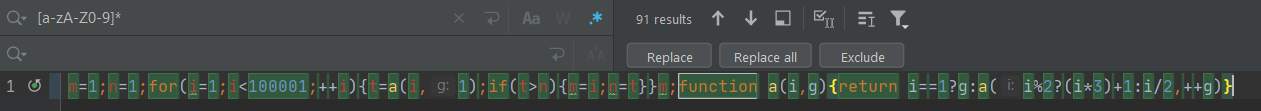
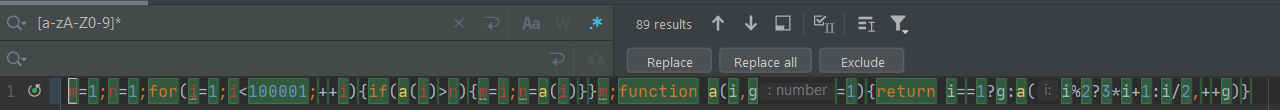
LAST COMMIT 89

diff --git a/SOLUTION.ts b/SOLUTION.ts
@@ -1,1 +1,1 @@
-m=1;n=1;for(i=1;i<100001;++i){t=a(i,1);if(t>n){m=i;n=t}}m;function a(i,g){return i==1?g:a(i%2?(i*3)+1:i/2,++g)}
+m=1;n=1;for(i=1;i<100001;++i){if(a(i)>n){m=i;n=a(i)}}m;function a(i,g=1){return i==1?g:a(i%2?3*i+1:i/2,++g)}

diff --git a/README.md b/README.md
@@ -1,6 +1,6 @@
 # Problema 1: Conjetura de Collatz
 * Resultado: 77031
-* Caracteres: 91
+* Caracteres: 89
 
 ![Optional Text](IMG/result.PNG)
 ![Optional Text](IMG/regex.PNG)
